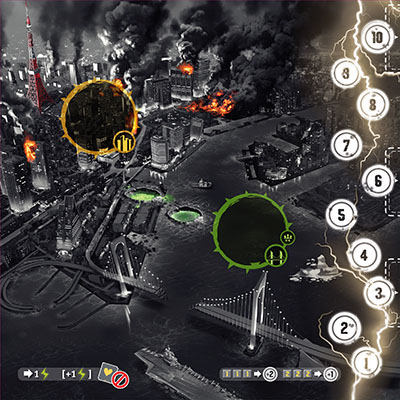
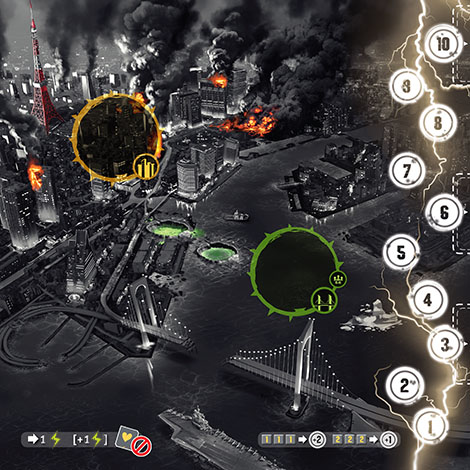
DE adjustments

diff --git a/kingoftokyo.css b/kingoftokyo.css
@@ -2181,6 +2181,7 @@ html[data-dark-edition=true] .card-stock .stockitem.kot-card[data-design=dark-ed
   transform: unset;
   font-family: "young-frankenstein";
   font-size: 11pt;
+  margin-top: -5px;
 }
 html[data-dark-edition=true] .card-stock .stockitem.kot-card[data-design=dark-edition] .type-wrapper.keep .outline, html[data-dark-edition=true] .card-stock #deck .type-wrapper.keep .outline {
   -webkit-text-stroke: 0;
@@ -2216,6 +2217,9 @@ html[data-dark-edition=true] .card-stock .stockitem.kot-card[data-design=dark-ed
 html[data-dark-edition=true] .kot-card[data-design=dark-edition] .card-keep-text, html[data-dark-edition=true] .kot-tile .card-keep-text, html[data-dark-edition=true] .dijitTooltipContainer .card-keep-text {
   color: white;
   font-family: "young-frankenstein";
+  font-size: 8pt;
+  font-weight: normal;
+  letter-spacing: 0.05rem;
 }
 html[data-dark-edition=true] .kot-card[data-design=dark-edition] .card-keep-text .outline, html[data-dark-edition=true] .kot-tile .card-keep-text .outline, html[data-dark-edition=true] .dijitTooltipContainer .card-keep-text .outline {
   -webkit-text-stroke: 0;
@@ -2224,10 +2228,12 @@ html[data-dark-edition=true] .kot-card[data-design=dark-edition] .card-keep-text
 html[data-dark-edition=true] .kot-card[data-design=dark-edition] .card-keep-text ::before, html[data-dark-edition=true] .kot-tile .card-keep-text ::before, html[data-dark-edition=true] .dijitTooltipContainer .card-keep-text ::before {
   content: "((";
   color: #f6d445;
+  letter-spacing: unset;
 }
 html[data-dark-edition=true] .kot-card[data-design=dark-edition] .card-keep-text ::after, html[data-dark-edition=true] .kot-tile .card-keep-text ::after, html[data-dark-edition=true] .dijitTooltipContainer .card-keep-text ::after {
   content: "))";
   color: #f6d445;
+  letter-spacing: unset;
 }
 html[data-dark-edition=true] .wickedness-tile-stock .stockitem, html[data-dark-edition=true] #table #table-center #full-board #wickedness-board-wrapper #wickedness-board .wickedness-tiles-pile .wickedness-tile {
   background-image: url("img/dark/wickedness-tiles.jpg");
@@ -2246,23 +2252,32 @@ html[data-dark-edition=true] .wickedness-tile-stock .stockitem .description-wrap
   color: white;
 }
 html[data-dark-edition=true] #table #table-center #full-board #board {
+  width: 470px;
+  height: 470px;
   background-image: url("img/dark/tokyo.jpg");
 }
 html[data-dark-edition=true] #table #table-center #full-board #board.twoPlayersVariant {
   background: url("img/dark/tokyo-2pvariant.jpg");
 }
 html[data-dark-edition=true] #table #table-center #full-board #board #tokyo-city {
-  top: 35px;
-  left: -6px;
+  top: 61px;
+  left: 17px;
 }
 html[data-dark-edition=true] #table #table-center #full-board #board #tokyo-bay {
-  bottom: 95px;
-  right: 41px;
+  bottom: 123px;
+  right: 78px;
+}
+html[data-dark-edition=true] #table #table-center #full-board #board #twoPlayersVariant-message {
+  right: 100px;
+}
+html[data-dark-edition=true] #table #table-center #full-board #board #board-corner-highlight {
+  bottom: 17px;
 }
 html[data-dark-edition=true] #table #table-center #full-board #wickedness-board-wrapper {
   width: 140px;
   position: relative;
   left: -80px;
+  height: 470px;
 }
 html[data-dark-edition=true] #table #table-center #full-board #wickedness-board-wrapper #wickedness-board {
   background: none;
@@ -2271,9 +2286,25 @@ html[data-dark-edition=true] #table #table-center #full-board #wickedness-board-
 html[data-dark-edition=true] #table #table-center #full-board #wickedness-board-wrapper #wickedness-board .wickedness-tiles-pile {
   left: 84px;
 }
+html[data-dark-edition=true] #table #table-center #full-board #wickedness-board-wrapper #wickedness-board #wickedness-tiles-pile-3 {
+  top: 302px;
+}
+html[data-dark-edition=true] #table #table-center #full-board #wickedness-board-wrapper #wickedness-board #wickedness-tiles-pile-6 {
+  top: 172px;
+}
+html[data-dark-edition=true] #table #table-center #full-board #wickedness-board-wrapper #wickedness-board #wickedness-tiles-pile-10 {
+  top: 3px;
+}
+html[data-dark-edition=true] #table #table-center #full-board #wickedness-board-wrapper #wickedness-board .monster-icon {
+  transition: opacity 0.5s;
+}
+html[data-dark-edition=true] #table #table-center #full-board #wickedness-board-wrapper #wickedness-board .monster-icon[data-wickedness="0"] {
+  opacity: 0;
+}
 html[data-dark-edition=true] #table .player-table .player-name.goodgirl {
   font-family: "young-frankenstein-italic";
-  font-size: 20pt;
+  font-size: 21pt;
+  letter-spacing: 0.1rem;
 }
 html[data-dark-edition=true] .kot-card[data-design=dark-edition] .icon.points, html[data-dark-edition=true] .kot-tile .icon.points, html[data-dark-edition=true] .tokyo-tower .icon.points, html[data-dark-edition=true] .dijitTooltipContainer .icon.points {
   background-image: url("img/dark/icons.png");

diff --git a/src/_dark-edition.scss b/src/_dark-edition.scss
@@ -116,6 +116,7 @@ html[data-dark-edition="true"] {
                 transform: unset;
                 font-family: 'young-frankenstein';
                 font-size: 11pt;
+                margin-top: -5px;
 
                 &.keep {
                     .outline {
@@ -163,6 +164,9 @@ html[data-dark-edition="true"] {
         .card-keep-text {
             color: white;
             font-family: 'young-frankenstein';
+            font-size: 8pt;
+            font-weight: normal;
+            letter-spacing: 0.05rem;
 
             .outline {
                 -webkit-text-stroke: 0;
@@ -172,10 +176,12 @@ html[data-dark-edition="true"] {
             ::before {
                 content: '((';
                 color: #f6d445;
+                letter-spacing: unset;
             }
             ::after {
                 content: '))';
                 color: #f6d445;
+                letter-spacing: unset;
             }
         }
     }
@@ -204,6 +210,8 @@ html[data-dark-edition="true"] {
 
     #table  #table-center #full-board {
         #board {
+            width: 470px;
+            height: 470px;
             background-image: url('img/dark/tokyo.jpg');
             
             &.twoPlayersVariant {
@@ -211,12 +219,20 @@ html[data-dark-edition="true"] {
             }
 
             #tokyo-city {
-                top: 35px;
-                left: -6px;
+                top: 61px;
+                left: 17px;
             }
             #tokyo-bay {
-                bottom: 95px;
-                right: 41px;
+                bottom: 123px;
+                right: 78px;
+            }
+
+            #twoPlayersVariant-message {
+                right: 100px;
+            }
+
+            #board-corner-highlight {
+                bottom: 17px;
             }
         }
 
@@ -224,6 +240,7 @@ html[data-dark-edition="true"] {
             width: 140px;
             position: relative;
             left: -80px;
+            height: 470px;
 
             #wickedness-board {
                 background: none;
@@ -231,6 +248,24 @@ html[data-dark-edition="true"] {
 
                 .wickedness-tiles-pile {
                     left: 84px;
+                }
+
+                #wickedness-tiles-pile-3 {
+                    top: 302px;
+                }
+                #wickedness-tiles-pile-6 {
+                    top: 172px;
+                }
+                #wickedness-tiles-pile-10 {
+                    top: 3px;
+                }
+                
+                .monster-icon {
+                    transition: opacity 0.5s;
+
+                    &[data-wickedness="0"] {
+                        opacity: 0;
+                    }
                 }
             }
         }
@@ -240,7 +275,8 @@ html[data-dark-edition="true"] {
         .player-name {    
             &.goodgirl {
                 font-family: 'young-frankenstein-italic';
-                font-size: 20pt;
+                font-size: 21pt;
+                letter-spacing: .1rem;
             }
         }
     }

diff --git a/kingoftokyo.js b/kingoftokyo.js
@@ -3694,17 +3694,17 @@ var WICKEDNESS_MONSTER_ICON_POSITION = [
     [124, 33],
 ];
 var WICKEDNESS_MONSTER_ICON_POSITION_DARK_EDITION = [
-    [-50, 302],
-    [29, 345],
-    [8, 312],
-    [42, 277],
-    [29, 239],
-    [5, 200],
-    [42, 165],
-    [10, 130],
-    [37, 90],
-    [9, 58],
-    [41, 22],
+    [-28, 324],
+    [24, 410],
+    [-2, 370],
+    [39, 328],
+    [22, 284],
+    [-5, 236],
+    [38, 197],
+    [1, 156],
+    [32, 107],
+    [1, 70],
+    [37, 29],
 ];
 var TableCenter = /** @class */ (function () {
     function TableCenter(game, players, visibleCards, topDeckCardBackType, wickednessTiles, tokyoTowerLevels, curseCard) {
@@ -3856,6 +3856,7 @@ var TableCenter = /** @class */ (function () {
         var _this = this;
         this.wickednessPoints.forEach(function (wickedness, playerId) {
             var markerDiv = document.getElementById("monster-icon-" + playerId + "-wickedness");
+            markerDiv.dataset.wickedness = '' + wickedness;
             var positionArray = _this.game.isDarkEdition() ? WICKEDNESS_MONSTER_ICON_POSITION_DARK_EDITION : WICKEDNESS_MONSTER_ICON_POSITION;
             var position = positionArray[wickedness];
             var topShift = 0;
@@ -4077,7 +4078,7 @@ var MonsterSelector = /** @class */ (function () {
         this.game = game;
         this.BONUS_GROUP = new MonsterGroup([], _('Bonus'), '#ffffff');
         this.MONSTER_GROUPS = [
-            new MonsterGroup([1, 2, 3, 4, 5, 6, 102, 104, 105, 106, 114, 115], 'King of Tokyo', '#ffcf13'),
+            new MonsterGroup([1, 2, 3, 4, 5, 6, 102, 104, 105, 106, 114, 115], this.game.isDarkEdition() ? 'King of Tokyo Dark Edition' : 'King of Tokyo', '#ffcf13'),
             new MonsterGroup([7, 8], _('Halloween expansion'), '#ff8200'),
             new MonsterGroup([18], _('Monster Box exclusive'), '#dd4271'),
             new MonsterGroup([9, 10, 11, 12], _('Monster Packs'), '#a9e9ae'),

diff --git a/src/monster-selector.ts b/src/monster-selector.ts
@@ -5,16 +5,17 @@ class MonsterGroup {
 class MonsterSelector {
     private BONUS_GROUP = new MonsterGroup([], _('Bonus'), '#ffffff');
 
-    private MONSTER_GROUPS = [
-        new MonsterGroup([1,2,3,4,5,6, 102,104,105,106,114,115], 'King of Tokyo', '#ffcf13'),
-        new MonsterGroup([7,8], _('Halloween expansion'), '#ff8200'),
-        new MonsterGroup([18], _('Monster Box exclusive'), '#dd4271'),
-        new MonsterGroup([9,10,11,12], _('Monster Packs'), '#a9e9ae'),
-        new MonsterGroup([13], _('Power-Up! expansion'), '#5d7b38'),
-        new MonsterGroup([21,22,23,24,25,26], 'King of New-York', '#645195'),
-    ];
+    private MONSTER_GROUPS: MonsterGroup[];
 
     constructor(private game: KingOfTokyoGame) {
+        this.MONSTER_GROUPS = [
+            new MonsterGroup([1,2,3,4,5,6, 102,104,105,106,114,115], this.game.isDarkEdition() ? 'King of Tokyo Dark Edition' : 'King of Tokyo', '#ffcf13'),
+            new MonsterGroup([7,8], _('Halloween expansion'), '#ff8200'),
+            new MonsterGroup([18], _('Monster Box exclusive'), '#dd4271'),
+            new MonsterGroup([9,10,11,12], _('Monster Packs'), '#a9e9ae'),
+            new MonsterGroup([13], _('Power-Up! expansion'), '#5d7b38'),
+            new MonsterGroup([21,22,23,24,25,26], 'King of New-York', '#645195'),
+        ];
     }
 
     public onEnteringPickMonster(args: EnteringPickMonsterArgs) {

diff --git a/src/table-center.ts b/src/table-center.ts
@@ -13,17 +13,17 @@ const WICKEDNESS_MONSTER_ICON_POSITION = [
 ];
 
 const WICKEDNESS_MONSTER_ICON_POSITION_DARK_EDITION = [
-    [-50, 302],
-    [29, 345],
-    [8, 312],
-    [42, 277],
-    [29, 239],
-    [5, 200],
-    [42, 165],
-    [10, 130],
-    [37, 90],
-    [9, 58],
-    [41, 22],
+    [-28, 324],
+    [24, 410],
+    [-2, 370],
+    [39, 328],
+    [22, 284],
+    [-5, 236],
+    [38, 197],
+    [1, 156],
+    [32, 107],
+    [1, 70],
+    [37, 29],
 ];
 
 class TableCenter {
@@ -212,6 +212,7 @@ class TableCenter {
     private moveWickednessPoints() {
         this.wickednessPoints.forEach((wickedness, playerId) => {
             const markerDiv = document.getElementById(`monster-icon-${playerId}-wickedness`);
+            markerDiv.dataset.wickedness = ''+wickedness;
 
             const positionArray = this.game.isDarkEdition() ? WICKEDNESS_MONSTER_ICON_POSITION_DARK_EDITION : WICKEDNESS_MONSTER_ICON_POSITION;
             const position = positionArray[wickedness];

diff --git a/modules/php/monster.php b/modules/php/monster.php
@@ -11,9 +11,10 @@ trait MonsterTrait {
 
     private function getGameMonsters() {
         $bonusMonsters = intval($this->getGameStateValue(BONUS_MONSTERS_OPTION)) == 2;
+        $isDarkEdition = $this->isDarkEdition();
 
         // Base game monsters : Space Penguin, Alienoid, Cyber Kitty, The King, Gigazaur, Meka Dragon
-        $monsters = $this->isDarkEdition() ? [102,104,105,106,114,115] : [1,2,3,4,5,6];
+        $monsters = $isDarkEdition ? [102,104,105,106,114,115] : [1,2,3,4,5,6];
 
         // Boogie Woogie, Pumpkin Jack
         if ($bonusMonsters || $this->isHalloweenExpansion()) {
@@ -32,7 +33,13 @@ trait MonsterTrait {
 
         // Pandakaï
         if ($bonusMonsters || $this->isPowerUpExpansion()) {
-            $monsters = [...$monsters, 13];
+            if ($isDarkEdition) {
+                if ($bonusMonsters) {
+                    $monsters = [...$monsters, 13];
+                }
+            } else {
+                $monsters = [...$monsters, 13];
+            }
         }
 
         // Kookie, X-Smash Tree

diff --git a/modules/php/utils.php b/modules/php/utils.php
@@ -97,7 +97,7 @@ trait UtilTrait {
     }
 
     function isDarkEdition() {
-        return /*$this->getBgaEnvironment() == 'studio' ||*/ intval($this->getGameStateValue(DARK_EDITION_OPTION)) > 1;
+        return $this->getBgaEnvironment() == 'studio' || intval($this->getGameStateValue(DARK_EDITION_OPTION)) > 1;
     }
 
     function releaseDatePassed(string $activationDateStr, int $hourShift) { // 1 for paris winter time, 2 for paris summer time
